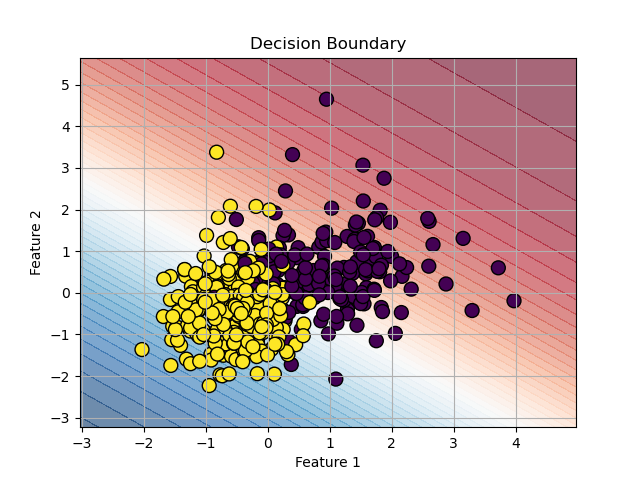
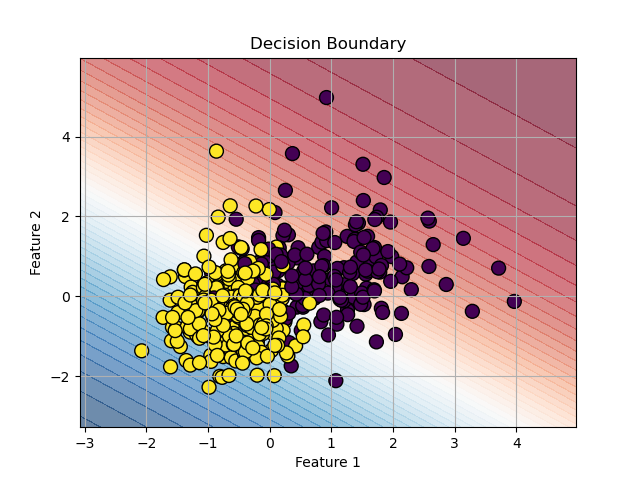
approved/t-SNE added

diff --git a/logistic_regression_minibatch.py b/logistic_regression_minibatch.py
@@ -1,8 +1,8 @@
 import numpy as np 
 import matplotlib.pyplot as plt
-import random
-import math
 from sklearn.datasets import load_breast_cancer# 导入乳腺癌数据集
+from sklearn.manifold import TSNE
+from sklearn.decomposition import PCA
 
 data = load_breast_cancer()
 X = data.data # 特征矩阵，形状 (n_samples, n_features)
@@ -10,12 +10,14 @@ y = data.target # 标签向量，0/1
 
 #数据处理（归一化，分为minibatch）
 
-X = (X - X.mean(axis=0)) / X.std(axis=0) # 归一化
-X_train = X[:int(len(X)*0.8)]
+
+X_train_1 = X[:int(len(X)*0.8)]
 y_train = y[:int(len(y)*0.8)]
 X_test = X[int(len(X)*0.8):]
 y_test = y[int(len(y)*0.8):]
 
+X_train = (X_train_1 - X_train_1.mean(axis=0)) / X_train_1.std(axis=0) # 归一化
+X_test = (X_test - X_train_1.mean(axis=0)) / X_train_1.std(axis=0) # 归一化
 
 #编程基础课给出简洁的逻辑回归实现，直接套用公式X.T @(f(X @ w) - y)即可
 
@@ -44,7 +46,7 @@ def train(X,y,lr=0.01,epochs=100,batch_size=32,seed = 40):
             g = gradient(Xb,yb,w)
             w -= lr * g
 
-            losses.append(-np.mean(y * np.log(f(X,w)) + (1-y) * np.log(1-f(X,w))))
+        losses.append(-np.mean(y * np.log(np.clip(f(X,w), 1e-15, 1-1e-15)) + (1-y) * np.log(np.clip(1-f(X,w), 1e-15, 1-1e-15))))
     return w, losses
 
 w, losses = train(X_train,y_train)
@@ -79,3 +81,40 @@ def plot_decision_boundary(X, y, w):
     plt.show()
 
 plot_decision_boundary(X_train[:, :2], y_train, w[:2])
+
+# t-SNE 可视化函数：先（可选）用 PCA 降维，再用 t-SNE 可视化并保存图片
+def plot_tsne(X, y, title="t-SNE", filename="tsne.png", pca_dim=30, perplexity=30, max_iter=1000, random_state=42):
+    # X assumed already normalized
+    from inspect import signature
+
+    X_emb = X
+    if X.shape[1] > pca_dim:
+        pca = PCA(n_components=pca_dim, random_state=random_state)
+        X_emb = pca.fit_transform(X)
+
+    # sklearn 版本差异：有的版本使用 max_iter，有的使用 n_iter
+    sig_params = signature(TSNE.__init__).parameters
+    tsne_kwargs = dict(n_components=2, perplexity=perplexity, random_state=random_state)
+    if 'max_iter' in sig_params:
+        tsne_kwargs['max_iter'] = max_iter
+    elif 'n_iter' in sig_params:
+        tsne_kwargs['n_iter'] = max_iter
+
+    tsne = TSNE(**tsne_kwargs)
+    X_tsne = tsne.fit_transform(X_emb)
+
+    plt.figure(figsize=(8, 6))
+    for label in np.unique(y):
+        idx = (y == label)
+        plt.scatter(X_tsne[idx, 0], X_tsne[idx, 1], s=30, alpha=0.8, label=str(label), edgecolors='k')
+    plt.title(title)
+    plt.xlabel('t-SNE 1')
+    plt.ylabel('t-SNE 2')
+    plt.legend(title='class')
+    plt.grid(True)
+    plt.savefig(filename)
+    plt.show()
+
+# 调用 t-SNE 可视化（训练集与测试集）
+plot_tsne(X_train, y_train, title='t-SNE of Train Set', filename='tsne_train.png')
+plot_tsne(X_test, y_test, title='t-SNE of Test Set', filename='tsne_test.png')
